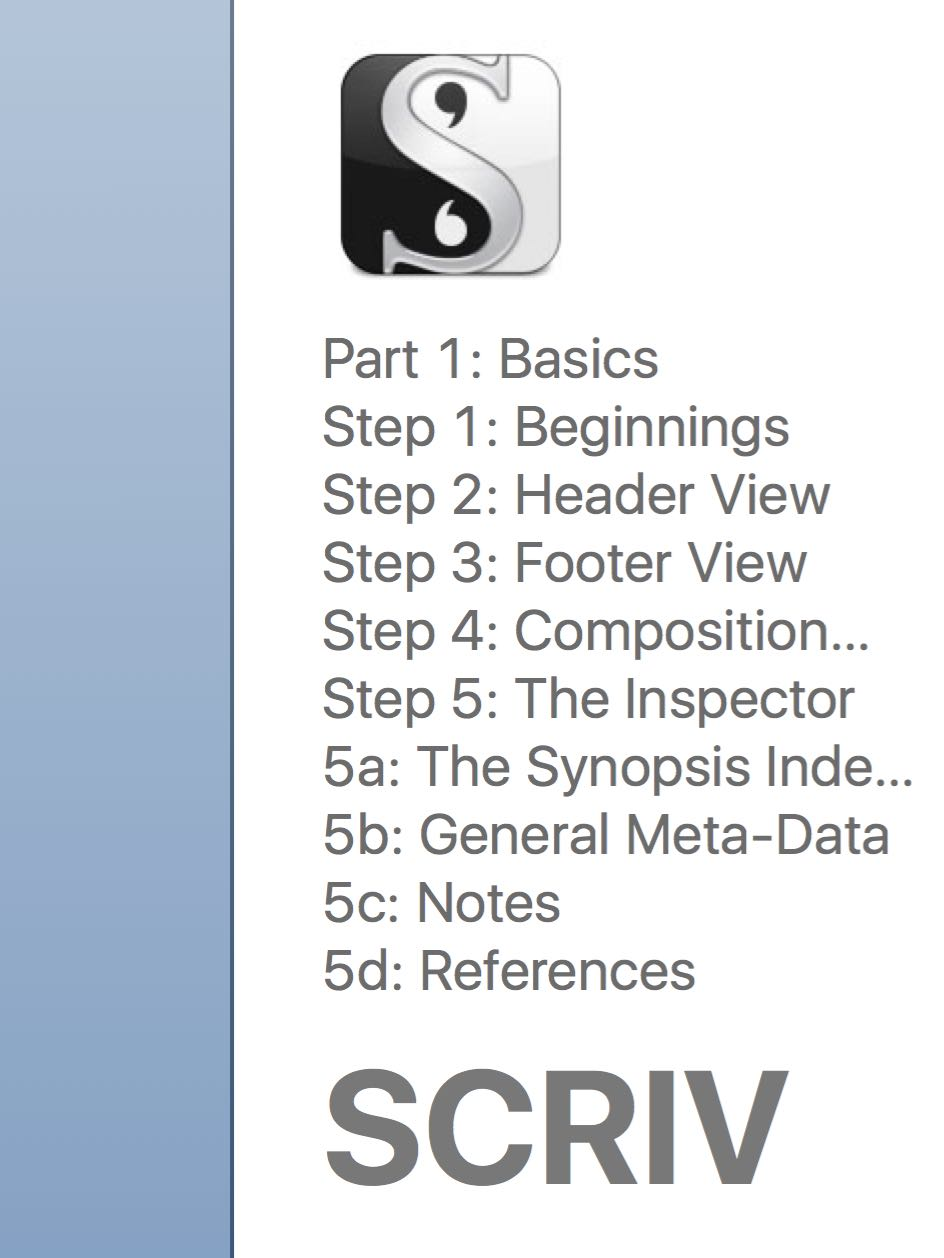
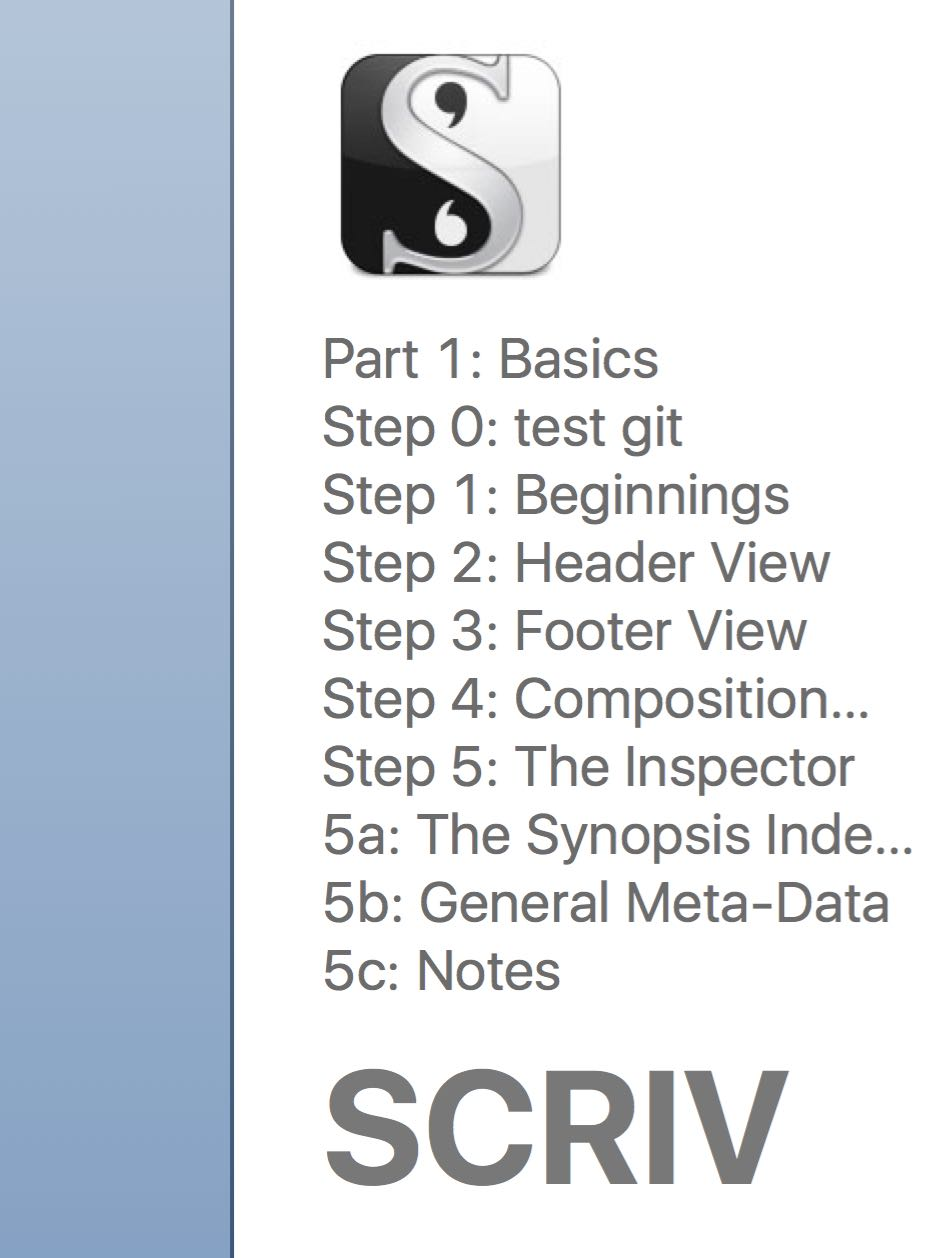
test git

Changed region(s): [[0.3379, 0.31, 0.9523, 0.806], [0.4608, 0.31, 0.5222, 0.403]]

diff --git a/QuickLook/Preview.html b/QuickLook/Preview.html
@@ -33,6 +33,11 @@
 <hr/>
 <ul>
 <li>
+<p class="binderItem"><strong>Step 0: test git</strong><br/>## Test git<br/>
+<br/>
+Hello world</p>
+</li>
+<li>
 <p class="binderItem"><strong>Step 1: Beginnings</strong><br/>This is where you would type a synopsis of the document.</p>
 </li>
 <li>
